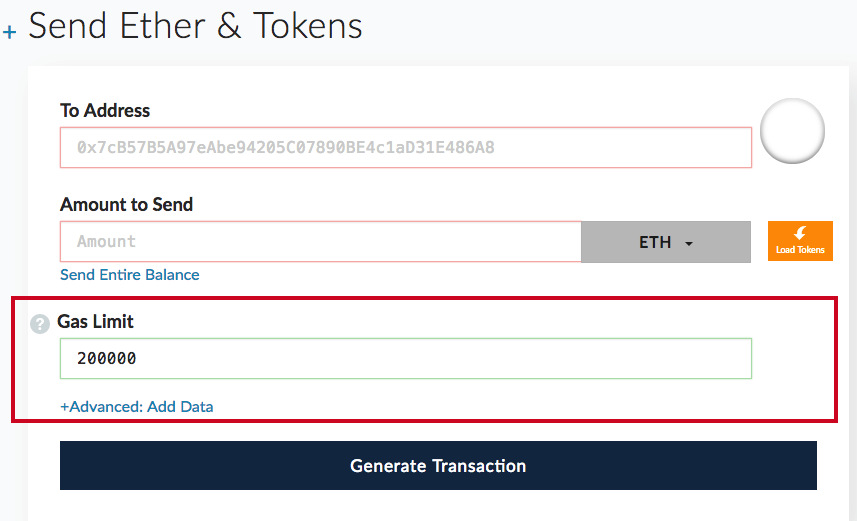
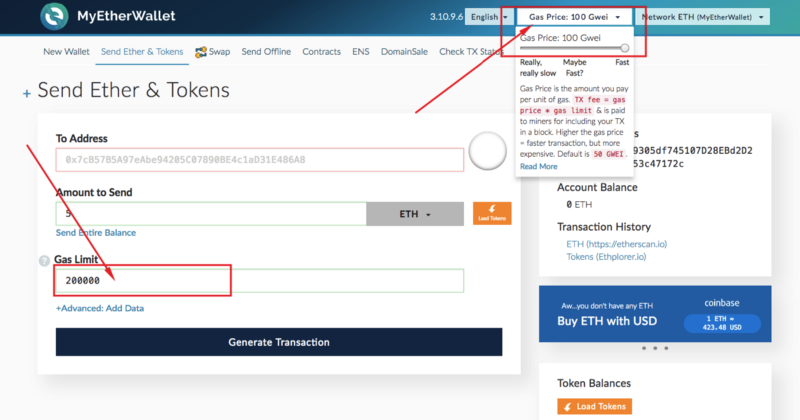
Update gas price screenshots and add prototype economy

diff --git a/resources/scss/_main.scss b/resources/scss/_main.scss
@@ -2362,12 +2362,6 @@ body.login-page {
         margin-bottom:15px;
       }
     }
-    .modal-dialog {
-      -webkit-transform: translate(0, 50%)!important;
-      -ms-transform: translate(0, 50%)!important;
-      -o-transform: translate(0, 50%)!important;
-      transform: translate(0, 50%)!important;
-    }
     p{
       span.red{
         color:#ffbcbc;
@@ -2730,64 +2724,66 @@ body.login-page {
       .col-md-3.last{
         border-right: 0;
       }
-      .bonuses-modal{
-        .week-bonus {
-          cursor: pointer;
-          &:hover{
-            background: rgba(255,255,255,0.1);
-          }
+      .week-bonus {
+        cursor: pointer;
+        &:hover{
+          background: rgba(255,255,255,0.1);
         }
-        .modal-dialog{
-          width: 800px;
-          max-width: 100%;
-          .modal-body {
-            position: relative;
-            padding: 35px;
+      }
+      .modal-dialog{
+        width: 800px!important;
+        max-width: 100%!important;
+        -webkit-transform: translate(0, 5%) !important;
+        -ms-transform: translate(0, 5%) !important;
+        -o-transform: translate(0, 5%) !important;
+        transform: translate(0, 5%) !important;
+        .modal-body {
+          position: relative;
+          padding: 35px;
+        }
+        .modal-content{
+          padding-bottom: 35px;
+        }
+        .bonuses-table {
+          h4{
+            font-size:20px;
+            margin-bottom:35px;
           }
-          .modal-content{
-            padding-bottom: 35px;
+          tbody{
+            border-bottom: 1px solid #828282;
+            margin-bottom:35px;
           }
-          .bonuses-table {
-            h4{
-              font-size:20px;
-              margin-bottom:35px;
-            }
-            tbody{
-              border-bottom: 1px solid #828282;
-              margin-bottom:35px;
-            }
-            tr{
-              border-top: 1px solid #828282;
-              td{
-                color:#000;
-                font-weight: 600;
-                text-align:left;
-                img{
-                  -webkit-filter: invert(100%);
-                  filter: invert(100%);
-                  margin:0;
-                }
-                span.sold-out{
-                  color:#fff;
-                }
-              }
-              &.sold-out {
-                td::before {
-                  content: " ";
-                  position: absolute;
-                  left: 0;
-                  top: 50%;
-                  width: 100%;
-                  border-bottom: 1px solid #000;
-                }
-              }
-            }
-            h4 {
-              text-transform: uppercase;
+          tr{
+            border-top: 1px solid #828282;
+            td{
+              color:#000;
               font-weight: 600;
-              letter-spacing: 1px;
-              color:#000!important;
+              text-align:left;
+              img{
+                -webkit-filter: invert(100%);
+                filter: invert(100%);
+                margin:0;
+              }
+              span.sold-out{
+                color:#fff;
+              }
             }
+            &.sold-out {
+              td::before {
+                content: " ";
+                position: absolute;
+                left: 0;
+                top: 50%;
+                width: 100%;
+                border-bottom: 1px solid #000;
+              }
+            }
+          }
+          h4 {
+            text-transform: uppercase;
+            font-weight: 600;
+            letter-spacing: 1px;
+            color:#000!important;
           }
         }
       }

diff --git a/resources/views/pages/ico-address.blade.php b/resources/views/pages/ico-address.blade.php
@@ -10,6 +10,7 @@
                 <li class="step-active"><a href="{{ route('address') }}">@lang('ico.step', ['number' => 2])</a></li>
                 <li class="step-other"><a href="{{ route('details') }}"><span>@lang('ico.other')</span></a></li>
             </ul>
+            <a style="color:rgba(255, 255, 255, 0.6); font-weight:300; display:block; font-size:14px; margin-top:45px;" href="{{ route('participate5') }}">How to check my BDG tokens?</a>
             <div class="how-to-btn">
                 <a class="how-to-participate" href="{{ route('participate') }}">@lang('ico.how-to')</a>
             </div>
@@ -79,15 +80,13 @@
                     <div class="row">
                         <div class="col-xs-12 col-md-10 col-md-offset-1">
                             @if($currentBonus)
-                                <div class="crowdsale-info-table text-center">
+                                <div class="row crowdsale-info-table text-center">
                                     <div class="col-xs-12 col-sm-3 col-md-3">
                                             <div class="bonuses-modal">
-
                                                 <div class="week-bonus" data-toggle="modal" data-target="#BonusModal">
                                                     <h4>@lang($currentBonus['name'])</h4>
                                                     <p>{{ ($currentBonus['bonus']-1) * 100 }}%</p>
                                                 </div>
-
                                                 <div class="modal fade" role="dialog" id="BonusModal" tabindex="-1" aria-labelledby="gridModalLabel" style="display: none;">
                                                     <div class="modal-dialog" role="document">
                                                         <div class="modal-content">
@@ -102,7 +101,7 @@
                                                                 <div class="bonuses-table">
                                                                     <table>
                                                                         <tbody>
-                                                                        <tr>
+                                                                        <tr class="sold-out">
                                                                             <td>
                                                                                 <img src="{{ asset_rev('token-img.png') }}" alt="BitDegree Token">
                                                                                 <img src="{{ asset_rev('token-img.png') }}" alt="BitDegree Token">
@@ -112,7 +111,7 @@
                                                                             <td>@lang('ico.week-num', ['number' => 1])</td>
                                                                             <td>@lang('ico.bonus-percent', ['amount' => 15])</td>
                                                                             <td>
-
+                                                                                <span class="tokens-left" style="color:#fff!important;">SOLD OUT!</span>
                                                                             </td>
                                                                         </tr>
                                                                         <tr>
@@ -124,7 +123,7 @@
                                                                             <td>@lang('ico.week-num', ['number' => 2])</td>
                                                                             <td>@lang('ico.bonus-percent', ['amount' => 10])</td>
                                                                             <td>
-
+                                                                                <span class="tokens-left">Available now!</span>
                                                                             </td>
                                                                         </tr>
                                                                         <tr>
@@ -155,21 +154,18 @@
                                                         </div>
                                                     </div>
                                                 </div>
-
                                             </div>
                                     </div>
                                     <div class="col-xs-12 col-sm-3 col-md-3">
                                         <h4>@lang('ico.rate-with-bonus')</h4>
                                         <p>1 ETH = {{ number_format($rate) }} BDG</p>
                                     </div>
-
                                     <div class="col-xs-12 col-sm-3 col-md-3">
                                         <div class="bonuses-modal">
-                                            <div class="" data-toggle="modal" data-target="#Gas1Modal">
+                                            <div class="" data-toggle="modal" data-target="#Gas3Modal">
                                                 <h4>@lang('ico.gas-limit') <span style="text-decoration:underline; cursor:pointer;">(SEE HOW)</span></h4>
                                             </div>
-
-                                            <div class="modal fade" role="dialog" id="Gas1Modal" tabindex="-1" aria-labelledby="gridModalLabel" style="display: none;">
+                                            <div class="modal fade" role="dialog" id="Gas3Modal" tabindex="-1" aria-labelledby="gridModalLabel" style="display: none;">
                                                 <div class="modal-dialog" role="document">
                                                     <div class="modal-content">
                                                         <div class="modal-header">
@@ -186,14 +182,32 @@
                                                     </div>
                                                 </div>
                                             </div>
-
                                         </div>
                                         <p>200,000</p>
                                     </div>
 
                                     <div class="col-xs-12 col-sm-3 col-md-3 last">
-                                        <h4 style="display: inline-block;">@lang('ico.gas-price')</h4>
-                                        <div style="display: inline-block;" class="bonuses-modal">
+                                        <div class="bonuses-modal">
+                                            <div class="" data-toggle="modal" data-target="#Gas2Modal">
+                                                <h4>@lang('ico.gas-price') <span style="text-decoration:underline; cursor:pointer;">(SEE HOW)</span></h4>
+                                            </div>
+                                            <div class="modal fade" role="dialog" id="Gas2Modal" tabindex="-1" aria-labelledby="gridModalLabel" style="display: none;">
+                                                <div class="modal-dialog" role="document">
+                                                    <div class="modal-content">
+                                                        <div class="modal-header">
+                                                            <button type="button" class="close" data-dismiss="modal" aria-label="Close"><span aria-hidden="true">×</span></button>
+                                                            <div class="modal-title">
+                                                                <h2>GAS PRICE</h2>
+                                                            </div>
+                                                        </div>
+
+                                                        <div class="modal-body">
+                                                            <img src="{{ asset_rev('gas-limit2.png') }}" alt="Gas Lmit">
+
+                                                        </div>
+                                                    </div>
+                                                </div>
+                                            </div>
                                         </div>
                                         <p>100 GWEI</p>
                                     </div>
@@ -204,7 +218,7 @@
                                     </div>
                                 </div>
                             @else
-                                <div class="crowdsale-info-table text-center">
+                                <div class="row crowdsale-info-table text-center">
                                     <div class="col-xs-6 col-sm-6 col-md-6">
                                         <h4>@lang('ico.exchange-rate')</h4>
                                         <p>1 ETH = {{ number_format($rate) }} BDG</p>

diff --git a/resources/views/partials/landing/animated-video-section.blade.php b/resources/views/partials/landing/animated-video-section.blade.php
@@ -10,7 +10,7 @@
             <div class="col-xs-12 col-md-12 text-center">
                 <div class="video-block">
                     @if($currentLanguage == "cn")
-                        <iframe height=461 width=820 src='http://player.youku.com/embed/XMzIzMTcxMjE1Ng==' frameborder=0 'allowfullscreen'></iframe>
+                        <iframe height=461 width=820 src='https://player.youku.com/embed/XMzIzMTcxMjE1Ng==' frameborder=0 'allowfullscreen'></iframe>
                     @else
                         <iframe width="820" height="461" src="https://www.youtube.com/embed/RuckLtuInNY?rel=0&amp;showinfo=0" frameborder="0" allowfullscreen></iframe>
                     @endif
@@ -20,5 +20,6 @@
                <p>@lang('home.video-description')</p>
             </div>
         </div>
+
     </div>
 </div>

diff --git a/resources/views/partials/landing/jeff-video.blade.php b/resources/views/partials/landing/jeff-video.blade.php
@@ -4,7 +4,7 @@
             <div class="image-container text-center">
 
                 @if($currentLanguage == "cn")
-                    <iframe height=461 width=820 src='http://player.youku.com/embed/XMzIzMTc0MDcwOA==' frameborder=0 'allowfullscreen'></iframe>
+                    <iframe height=461 width=820 src='https://player.youku.com/embed/XMzIzMTc0MDcwOA==' frameborder=0 'allowfullscreen'></iframe>
                 @else
                     <iframe width="820" height="456" src="https://www.youtube.com/embed/R0pKfprwSAI?rel=0&amp;controls=0&amp;showinfo=0" frameborder="0" allowfullscreen></iframe>
                 @endif

diff --git a/resources/views/partials/landing/prototype-economy.blade.php b/resources/views/partials/landing/prototype-economy.blade.php
@@ -1,0 +1,11 @@
+<div id="why-us" class="main">
+    <div class="container">
+        <div class="row">
+            <div class="col-xs-12">
+                <h2 class="title center">Prototype token economy</h2>
+                <img src="{{ asset_rev('token-economy-example.png') }}" alt="Token economy example">
+            </div>
+        </div>
+        <hr style="margin-top:55px; margin-bottom:-55px;">
+    </div>
+</div>

diff --git a/resources/views/pages/home.blade.php b/resources/views/pages/home.blade.php
@@ -7,6 +7,7 @@
     @include('partials.landing.twitter-feed')
     @include('partials.landing.starting-point')
     @include('partials.landing.animated-video-section')
+    @include('partials.landing.prototype-economy')
     @include('partials.landing.stats-moocs')
     @include('partials.landing.how-it-works-mvp-2')
     @include('partials.landing.stats-demand')

diff --git a/resources/lang/en/ico.php b/resources/lang/en/ico.php
@@ -19,7 +19,7 @@ return [
     'gas-price' => 'Gas Price',
     'exchange-rate' => 'Exchange rate',
     'ends-in' => 'Token sale ends in:',
-    'how-to' => 'How to participate?',
+    'how-to' => 'See all tutorials',
     'bdg' => 'BDG Token',
     'whats-next' => 'What\'s next?',
     'other' => 'Other',
